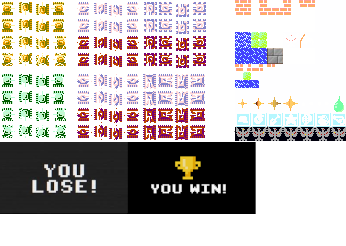
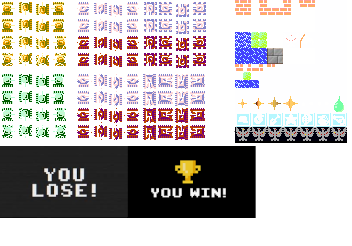
step 14: win/loose popup

diff --git a/game.cpp b/game.cpp
@@ -5,6 +5,7 @@
 #include "enemy.h"
 #include "projectile.h"
 #include "tank.h"
+#include "tileset.h"
 #include "wall.h"
 #include "player.h"
 #include <QRandomGenerator>
@@ -84,7 +85,6 @@ void Game::initializePlayer()
 
 void Game::initializeMap()
 {
-
 
     EnemyHQ *hq = new EnemyHQ(this, 8, 2);
     hq->SetTile();
@@ -219,7 +219,6 @@ GameObject *Game::collide(GameObject *obj, float x, float y)
                 win();
             }
 
-
             destroyGameObject(dst);
         }
     }
@@ -247,12 +246,24 @@ void Game::onTankKilled(Tank *tank)
 
 void Game::loose()
 {
+    popup("loose");
 }
 
 void Game::win()
 {
+
     for (Enemy *enemy : m_enemies)
     {
-            enemy->kill();
+        enemy->kill();
     }
+    popup("win");
+}
+
+void Game::popup(QString name)
+{
+    TileSet *tl = TileSet::getInstance();
+    QPixmap img = tl->getTile(name);
+    QGraphicsPixmapItem *pop = new QGraphicsPixmapItem(img);
+    pop->setPos(336, 264);
+    emit gameObjectAdded(pop);
 }

diff --git a/tileset.cpp b/tileset.cpp
@@ -65,7 +65,6 @@ void TileSet::init()
     addTile("enemyHQ-5", QRect(315.0f, 127.0f, 16.0f, 16.0f));
     addTile("enemyHQ-6", QRect(331.0f, 127.0f, 16.0f, 16.0f));
 
-    addTile("win", QRect(129.0f, 143.0f, 128.0f, 72.0f));
-    addTile("loose", QRect(0.0f, 143.0f, 128.0f, 72.0f));
-
+    addTile("win", QRect(129.0f, 146.0f, 128.0f, 72.0f));
+    addTile("loose", QRect(0.0f, 146.0f, 128.0f, 72.0f));
 }

diff --git a/game.h b/game.h
@@ -35,7 +35,7 @@ public:
     void addGameObject(GameObject *obj);
 
 signals:
-    void gameObjectAdded(GameObject *obj);
+    void gameObjectAdded(QGraphicsPixmapItem *obj);
     void gameObjectDestroyed(GameObject *obj);
 
 private:
@@ -54,6 +54,7 @@ private:
 
     void onTankKilled(Tank *tank);
 
+    void popup(QString name);
     void loose();
     void win();
 };

diff --git a/gamescene.h b/gamescene.h
@@ -28,7 +28,7 @@ protected:
 
 private slots:
     void onGameStarted(Game *game);
-    void onGameObjectCreated(GameObject *obj);
+    void onGameObjectCreated(QGraphicsPixmapItem *obj);
     void onGameObjectDestroyed(GameObject *obj);
     void onGameUpdateTimer();
 

diff --git a/gamescene.cpp b/gamescene.cpp
@@ -90,7 +90,7 @@ void GameScene::onGameStarted(Game *game)
     // }
 }
 
-void GameScene::onGameObjectCreated(GameObject *obj)
+void GameScene::onGameObjectCreated(QGraphicsPixmapItem *obj)
 {
     m_scene->addItem(obj);
 }
